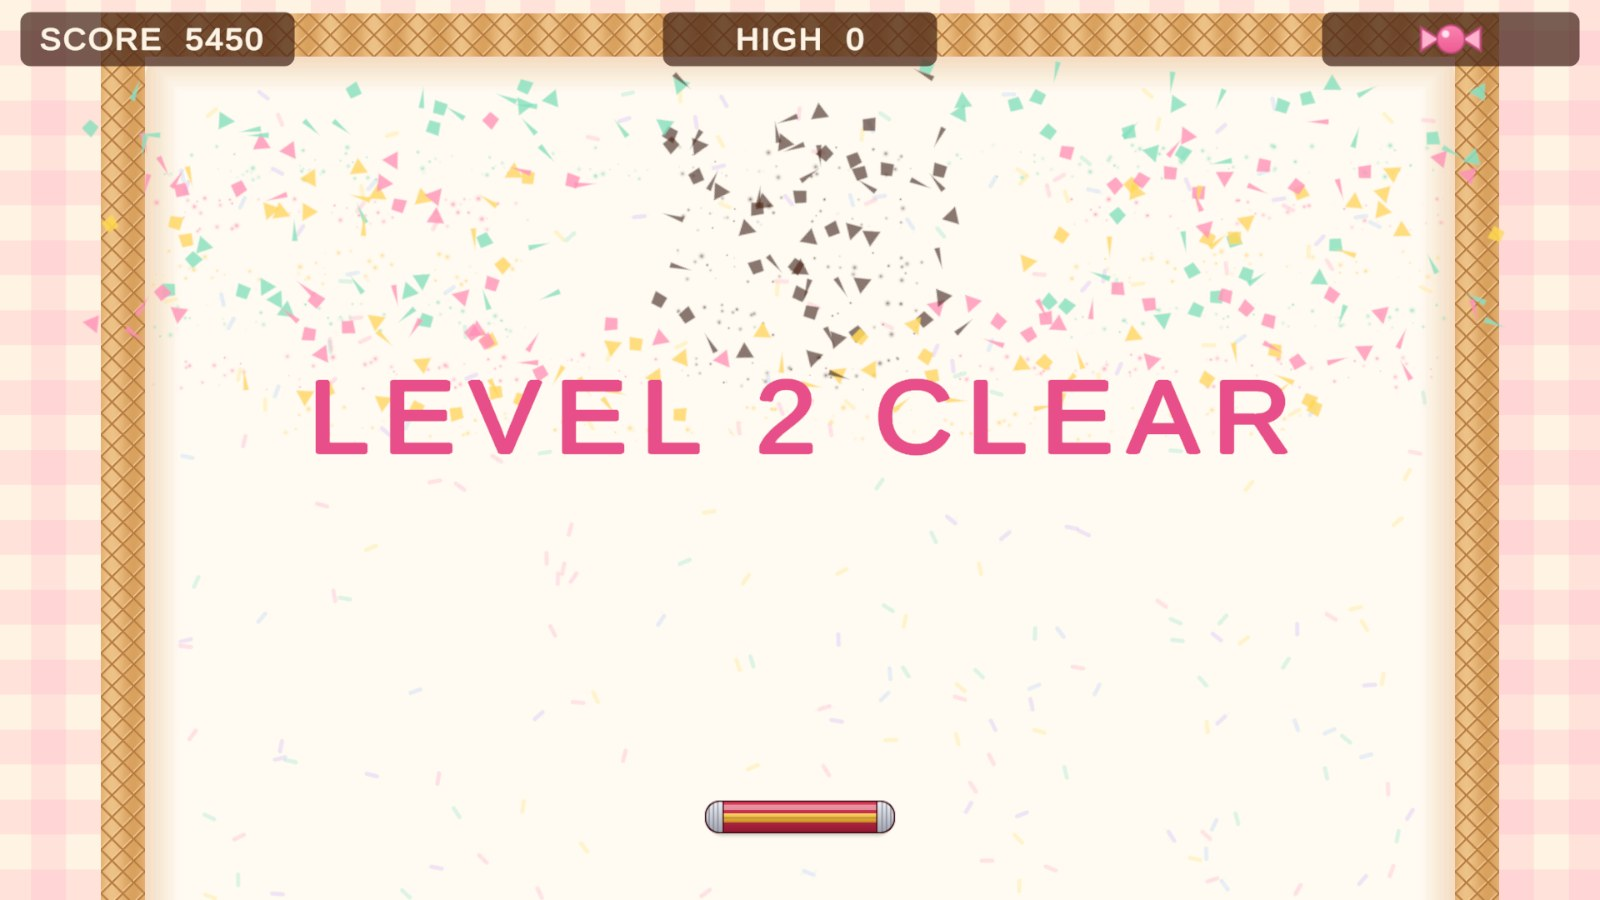
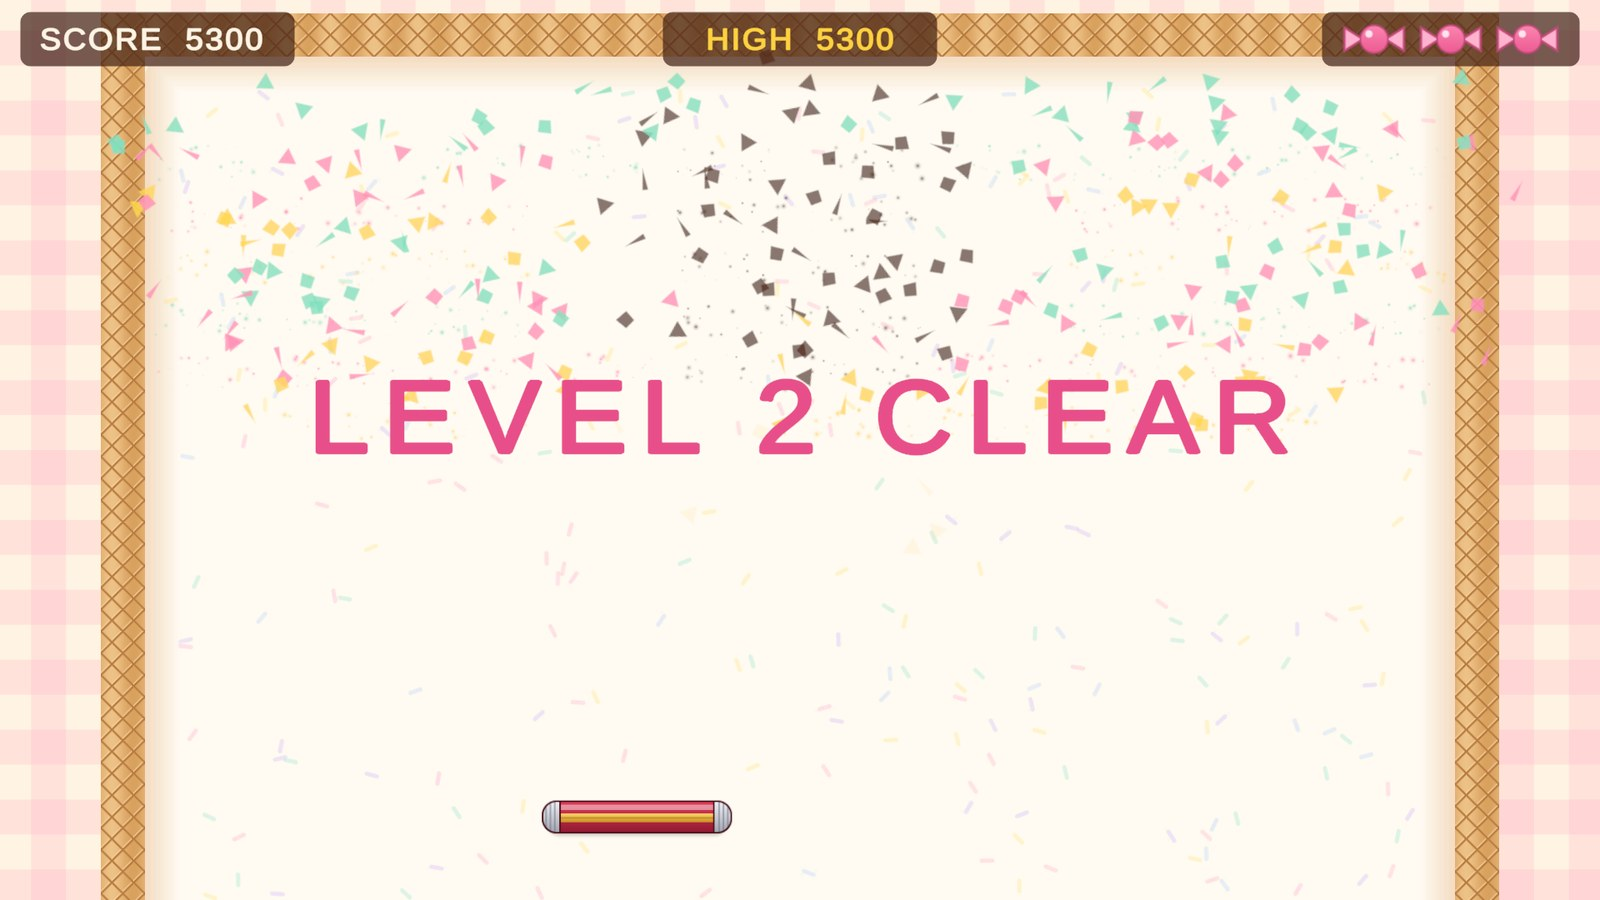
Retake the in-play screenshots and bring the README up to date
The six in-play shots showed HIGH below SCORE, which the live readout no
longer allows. They are retaken in the same situations and at the same
resolutions. The level 2 shot now also shows the wide paddle with its
timer bar underneath and HIGH in gold after passing the record. No run
was finished while staging them, so the stored high score is unchanged.

The README lists ExpansionTimerBar and MenuFocus in the project layout,
mentions the record pop under Coroutines, and links the GDD as v0.10.
The wireframe's caption no longer says nothing in it is implemented.

diff --git a/README.md b/README.md
@@ -17,7 +17,7 @@ Captured from the running game (Unity Game view) at the resolutions shown.
 | | |
 |---|---|
 | ![Main menu](Docs/images/screenshots/main-menu.jpg) Main menu | ![Level 1 mid-rally](Docs/images/screenshots/level1-rally-16x9.jpg) Level 1 mid-rally, 16:9: both chocolate bars cracked, a capsule falling |
-| ![Level 2 at 16:10](Docs/images/screenshots/level2-16x10.jpg) Level 2 at 16:10, with shards from a break | ![Level 3 at 4:3](Docs/images/screenshots/level3-4x3.jpg) Level 3 at 4:3 |
+| ![Level 2 at 16:10](Docs/images/screenshots/level2-16x10.jpg) Level 2 at 16:10: the wide paddle with its power-up timer underneath, shards from a break, and HIGH turned gold after passing the record | ![Level 3 at 4:3](Docs/images/screenshots/level3-4x3.jpg) Level 3 at 4:3 |
 | ![Level 3 at 21:9](Docs/images/screenshots/level3-21x9.jpg) Level 3 at 21:9 | ![Level clear](Docs/images/screenshots/level-clear.jpg) The level-clear banner |
 | ![Pause](Docs/images/screenshots/pause.jpg) Pause | ![How to play](Docs/images/screenshots/how-to-play.jpg) How to Play |
 | ![Game over](Docs/images/screenshots/game-over.jpg) Game over | ![Victory](Docs/images/screenshots/victory.jpg) Victory |
@@ -45,7 +45,7 @@ Active Input Handling is set to **Both** on purpose: the game reads the legacy I
 | Pattern | Where | What it does here |
 |---|---|---|
 | Singleton | [`GameManager`](Assets/Scripts/Core/GameManager.cs) | One run state machine, kept with `DontDestroyOnLoad`; a copy in each scene removes itself if one already exists |
-| Coroutines | [`GameManager`](Assets/Scripts/Core/GameManager.cs), [`PaddleController`](Assets/Scripts/Gameplay/PaddleController.cs), [`ImpactFeedback`](Assets/Scripts/Presentation/ImpactFeedback.cs), [`UIManager`](Assets/Scripts/UI/UIManager.cs) | Serve delay, level-clear sequence, the power-up timer, hit-stop, screen shake, paddle squash, last-brick slow motion, end-screen input lockout |
+| Coroutines | [`GameManager`](Assets/Scripts/Core/GameManager.cs), [`PaddleController`](Assets/Scripts/Gameplay/PaddleController.cs), [`ImpactFeedback`](Assets/Scripts/Presentation/ImpactFeedback.cs), [`UIManager`](Assets/Scripts/UI/UIManager.cs) | Serve delay, level-clear sequence, the power-up timer, hit-stop, screen shake, paddle squash, last-brick slow motion, end-screen input lockout, the pop when the run passes the high score |
 | Object Pool | [`BrickVfxPool`](Assets/Scripts/Presentation/BrickVfxPool.cs), [`Shard`](Assets/Scripts/Presentation/Shard.cs) | `UnityEngine.Pool.ObjectPool` for the brick-break particle bursts (8) and shards (48) |
 | ScriptableObjects | [`GameConfig`](Assets/Scripts/Core/GameConfig.cs), [`LevelDefinition`](Assets/Scripts/Core/LevelDefinition.cs) | Every tuning value from GDD §3 in one asset (`Assets/Data/GameConfig.asset`); one asset per level |
 | PlayerPrefs | [`HighScoreStore`](Assets/Scripts/Core/HighScoreStore.cs) | The single `HighScore` integer, written only when a run ends and only if beaten |
@@ -56,8 +56,8 @@ Active Input Handling is set to **Both** on purpose: the game reads the legacy I
 Assets/
   Scripts/Core          GameManager, GameState, GameConfig, LevelDefinition, HighScoreStore
   Scripts/Gameplay      Paddle, Ball, Brick, LevelManager, DeadZone, power-up spawner and pickup
-  Scripts/Presentation  CameraFitter, ImpactFeedback, BrickVfxPool, Shard
-  Scripts/UI            UIManager (in-game screens and HUD), MainMenuUI
+  Scripts/Presentation  CameraFitter, ImpactFeedback, ExpansionTimerBar, BrickVfxPool, Shard
+  Scripts/UI            UIManager (in-game screens and HUD), MainMenuUI, MenuFocus
   Scripts/Audio         AudioManager
   Data/                 GameConfig.asset and the three LevelDefinition assets
   Prefabs/              Paddle, Ball, bricks, level layouts, capsule, VFX, UI screens
@@ -77,7 +77,7 @@ with TextMesh Pro, under the SIL Open Font License 1.1 (licence file in
 
 ## Documents
 
-- [Game Design Document](Docs/SWEETBREAKER_GDD.md) — v0.6
+- [Game Design Document](Docs/SWEETBREAKER_GDD.md) — v0.10
 - [Docs/images/](Docs/images/) — original diagrams referenced by the GDD
 
 ## Team
